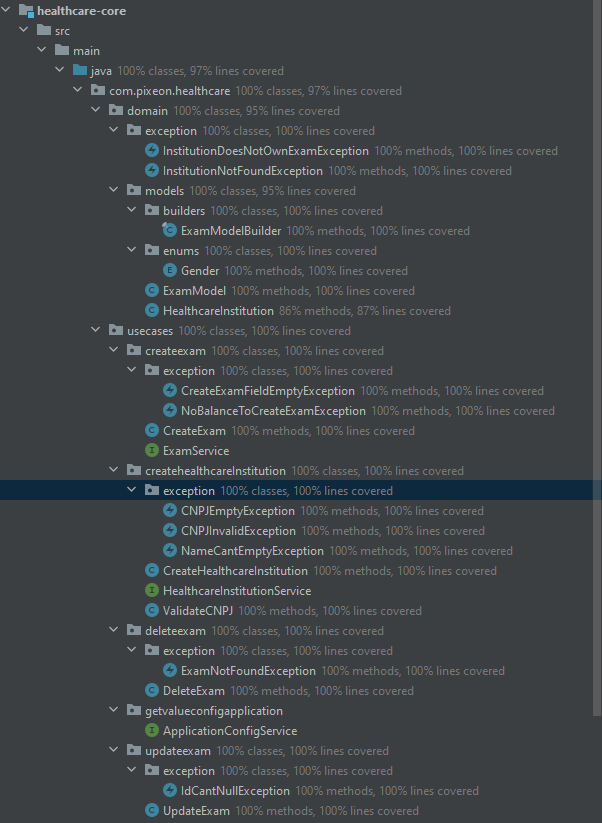
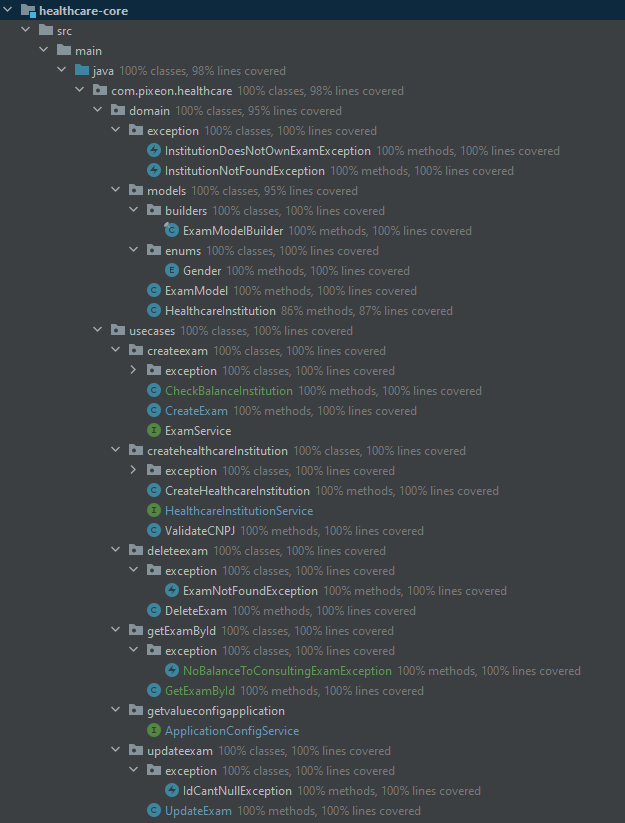
Finalizando implementacao para obter dados de exames

Changed region(s): [[0.0, 0.0, 1.0, 1.0]]

diff --git a/healthcare-core/src/test/java/com/pixeon/healthcare/usecases/getExamById/GetExamByIdTest.java b/healthcare-core/src/test/java/com/pixeon/healthcare/usecases/getExamById/GetExamByIdTest.java
@@ -1,0 +1,126 @@
+package com.pixeon.healthcare.usecases.getExamById;
+
+import com.pixeon.healthcare.domain.exception.InstitutionDoesNotOwnExamException;
+import com.pixeon.healthcare.domain.models.ExamModel;
+import com.pixeon.healthcare.domain.models.HealthcareInstitution;
+import com.pixeon.healthcare.domain.models.builders.ExamModelBuilder;
+import com.pixeon.healthcare.domain.models.enums.Gender;
+import com.pixeon.healthcare.usecases.createexam.ExamService;
+import com.pixeon.healthcare.usecases.createhealthcareInstitution.HealthcareInstitutionService;
+import com.pixeon.healthcare.usecases.getExamById.exception.NoBalanceToConsultingExamException;
+import com.pixeon.healthcare.usecases.getvalueconfigapplication.ApplicationConfigService;
+import org.junit.Before;
+import org.junit.Test;
+import org.mockito.Mock;
+import org.mockito.MockitoAnnotations;
+
+import java.math.BigDecimal;
+
+import static org.junit.Assert.assertEquals;
+import static org.junit.Assert.assertThrows;
+import static org.mockito.ArgumentMatchers.anyInt;
+import static org.mockito.Mockito.*;
+
+public class GetExamByIdTest {
+
+    private static final int EXAM_ID = 1;
+    private static final BigDecimal VALUE_FOR_CONSULTING_EXAM = new BigDecimal(4.78);
+    private GetExamById getExamById;
+    @Mock
+    private ExamService examService;
+    @Mock
+    private ApplicationConfigService applicationConfigService;
+    @Mock
+    private HealthcareInstitutionService healthcareInstitutionService;
+
+    @Before
+    public void setup() {
+        MockitoAnnotations.openMocks(this);
+        this.getExamById = new GetExamById(applicationConfigService, examService, healthcareInstitutionService);
+        when(examService.getExameById(anyInt())).thenReturn(createExam());
+        when(applicationConfigService.getValueForConsultingExam()).thenReturn(VALUE_FOR_CONSULTING_EXAM);
+        when(healthcareInstitutionService.getCurrentInstitution()).thenReturn(new HealthcareInstitution.Builder()
+                .name("Instituição de Saúde")
+                .cnpj("42.094.340/0001-79")
+                .coins(new BigDecimal(20.0))
+                .build());
+    }
+
+    @Test
+    public void shouldReturnExam() {
+        ExamModel examModel = this.getExamById.get(EXAM_ID);
+
+        assertEquals(1, examModel.getId(), 0.1);
+        assertEquals("Wellton S. Barros", examModel.getPatientName());
+        assertEquals(35, examModel.getPatientAge(), 0.1);
+        assertEquals(Gender.MALE, examModel.getPatientGender());
+        assertEquals("Laiane Carvalho de Oliveira", examModel.getPhysicianName());
+        assertEquals(981651, examModel.getPhysicianCRM(), 0.1);
+        assertEquals("Mentoplastia", examModel.getProcedureName());
+    }
+
+    @Test
+    public void shouldNotReturnExamFromAnotherInstitution() {
+        when(healthcareInstitutionService.getCurrentInstitution()).thenReturn(new HealthcareInstitution.Builder()
+                .name("Outra Instituição de Saúde")
+                .cnpj("56.227.555/0001-25")
+                .build());
+
+        InstitutionDoesNotOwnExamException exception = assertThrows(InstitutionDoesNotOwnExamException.class, () -> this.getExamById.get(EXAM_ID));
+        assertEquals("Exame não pertence a atual instituição!", exception.getMessage());
+    }
+
+    @Test
+    public void shouldReturnExceptionWhenInstitutionNotHaveEnoughBalance() {
+        when(healthcareInstitutionService.getCurrentInstitution()).thenReturn(new HealthcareInstitution.Builder()
+                .name("Instituição de Saúde")
+                .cnpj("42.094.340/0001-79")
+                .coins(new BigDecimal(1.2))
+                .build());
+
+        NoBalanceToConsultingExamException exception = assertThrows(NoBalanceToConsultingExamException.class, () -> this.getExamById.get(EXAM_ID));
+        assertEquals("Instituição não possui saldo para consultar exames!", exception.getMessage());
+    }
+
+    @Test
+    public void shouldReturnNewBalanceAfterConsultationCharge() {
+        when(healthcareInstitutionService.getCurrentInstitution()).thenReturn(new HealthcareInstitution.Builder()
+                .name("Instituição de Saúde")
+                .cnpj("42.094.340/0001-79")
+                .coins(new BigDecimal(15.78))
+                .build());
+
+        ExamModel exam = createExam();
+        when(examService.getExameById(anyInt())).thenReturn(exam);
+
+        ExamModel examModel = this.getExamById.get(EXAM_ID);
+        assertEquals(11.00, examModel.getHealthcareInstitution().getCoins().doubleValue(), 0.1);
+    }
+
+    @Test
+    public void verifyIfUpdateIsCallingWhenConsultingExam() {
+        this.getExamById.get(EXAM_ID);
+        verify(healthcareInstitutionService, times(1)).update(any());
+    }
+
+    private ExamModel createExam() {
+        return ExamModelBuilder.Builder()
+                .withId(1)
+                .withPatientName("Wellton S. Barros")
+                .withPatientAge(35)
+                .withPatientGender(Gender.MALE)
+                .withPhysicianName("Laiane Carvalho de Oliveira")
+                .withPhysicianCRM(981651)
+                .withProcedureName("Mentoplastia")
+                .withHealthcareInstitution(createInstitution())
+                .build();
+    }
+
+    private HealthcareInstitution createInstitution() {
+        return new HealthcareInstitution.Builder()
+                .name("Instituição de Saúde")
+                .cnpj("42.094.340/0001-79")
+                .coins(new BigDecimal(20.0))
+                .build();
+    }
+}

diff --git a/healthcare-core/src/main/java/com/pixeon/healthcare/usecases/getExamById/GetExamById.java b/healthcare-core/src/main/java/com/pixeon/healthcare/usecases/getExamById/GetExamById.java
@@ -1,0 +1,59 @@
+package com.pixeon.healthcare.usecases.getExamById;
+
+import com.pixeon.healthcare.domain.exception.InstitutionDoesNotOwnExamException;
+import com.pixeon.healthcare.domain.models.ExamModel;
+import com.pixeon.healthcare.domain.models.HealthcareInstitution;
+import com.pixeon.healthcare.usecases.createexam.CheckBalanceInstitution;
+import com.pixeon.healthcare.usecases.createexam.ExamService;
+import com.pixeon.healthcare.usecases.createhealthcareInstitution.HealthcareInstitutionService;
+import com.pixeon.healthcare.usecases.getExamById.exception.NoBalanceToConsultingExamException;
+import com.pixeon.healthcare.usecases.getvalueconfigapplication.ApplicationConfigService;
+
+import java.math.BigDecimal;
+
+public class GetExamById {
+
+    private ExamService examService;
+    private ApplicationConfigService applicationConfigService;
+    private HealthcareInstitutionService institutionService;
+
+    public GetExamById(ApplicationConfigService applicationConfigService, ExamService examService, HealthcareInstitutionService institutionService) {
+        this.applicationConfigService = applicationConfigService;
+        this.examService = examService;
+        this.institutionService = institutionService;
+    }
+
+    public ExamModel get(int examId) {
+        BigDecimal valueForConsultingExam = applicationConfigService.getValueForConsultingExam();
+        HealthcareInstitution currentInstitution = institutionService.getCurrentInstitution();
+
+        ExamModel exam = examService.getExameById(examId);
+        checkIfInstitutionOwnsExam(currentInstitution, exam.getHealthcareInstitution());
+        checkIfInstitutionHaveEnoughBalance(valueForConsultingExam, currentInstitution);
+        chargeValueForConsultingExam(valueForConsultingExam, currentInstitution);
+        updateInstitutionAfterConsultingExam(currentInstitution, exam);
+
+        exam.setHealthcareInstitution(currentInstitution);
+        return exam;
+    }
+
+    private void checkIfInstitutionOwnsExam(HealthcareInstitution currentInstitution, HealthcareInstitution examInstitution) {
+        if (!currentInstitution.equals(examInstitution)) {
+            throw new InstitutionDoesNotOwnExamException();
+        }
+    }
+
+    private void checkIfInstitutionHaveEnoughBalance(BigDecimal valueForConsultingExam, HealthcareInstitution currentInstitution) {
+        new CheckBalanceInstitution<>(new NoBalanceToConsultingExamException()).check(currentInstitution, valueForConsultingExam);
+    }
+
+    private void updateInstitutionAfterConsultingExam(HealthcareInstitution institution, ExamModel exam) {
+//        chargeValueForConsultingExam(institution);
+        institutionService.update(institution);
+//        exam.setHealthcareInstitution(institution);
+    }
+
+    private void chargeValueForConsultingExam(BigDecimal valueForConsultingExam, HealthcareInstitution institution) {
+        institution.subtractCoins(valueForConsultingExam);
+    }
+}

diff --git a/healthcare-core/src/main/java/com/pixeon/healthcare/usecases/createexam/CheckBalanceInstitution.java b/healthcare-core/src/main/java/com/pixeon/healthcare/usecases/createexam/CheckBalanceInstitution.java
@@ -1,0 +1,32 @@
+package com.pixeon.healthcare.usecases.createexam;
+
+import com.pixeon.healthcare.domain.models.HealthcareInstitution;
+
+import java.math.BigDecimal;
+
+public class CheckBalanceInstitution<T extends RuntimeException> {
+
+    private static final double WITHOUT_BALANCE = 0.0;
+    private T t;
+
+    public CheckBalanceInstitution(T t) {
+        this.t = t;
+    }
+
+    public void check(HealthcareInstitution institution, BigDecimal valueForCreateExam) {
+        verifyIfZero(institution);
+        verifyIfBalanceByReference(institution, valueForCreateExam);
+    }
+
+    private void verifyIfBalanceByReference(HealthcareInstitution institution, BigDecimal valueForCreateExam) {
+        if (institution.getCoins().doubleValue() < valueForCreateExam.doubleValue()) {
+            throw t;
+        }
+    }
+
+    private void verifyIfZero(HealthcareInstitution institution) {
+        if (institution.getCoins().doubleValue() <= WITHOUT_BALANCE) {
+            throw t;
+        }
+    }
+}

diff --git a/healthcare-core/src/main/java/com/pixeon/healthcare/usecases/updateexam/UpdateExam.java b/healthcare-core/src/main/java/com/pixeon/healthcare/usecases/updateexam/UpdateExam.java
@@ -20,7 +20,7 @@ public class UpdateExam {
     }
 
     public ExamModel update(ExamModel examModel) {
-        valid(examModel);
+        validFields(examModel);
         HealthcareInstitution examInstitution = getInstitutionOfExam(examModel);
         checkIfInstitutionOwnsExam(examInstitution);
         return examService.update(examModel);
@@ -41,7 +41,7 @@ public class UpdateExam {
         }
     }
 
-    private void valid(ExamModel examModel) {
+    private void validFields(ExamModel examModel) {
         if (examModel.isNullId()) {
             throw new IdCantNullException();
         }

diff --git a/healthcare-core/src/main/java/com/pixeon/healthcare/usecases/getExamById/exception/NoBalanceToConsultingExamException.java b/healthcare-core/src/main/java/com/pixeon/healthcare/usecases/getExamById/exception/NoBalanceToConsultingExamException.java
@@ -1,0 +1,8 @@
+package com.pixeon.healthcare.usecases.getExamById.exception;
+
+public class NoBalanceToConsultingExamException extends RuntimeException {
+
+    public NoBalanceToConsultingExamException() {
+        super("Instituição não possui saldo para consultar exames!");
+    }
+}

diff --git a/healthcare-core/src/main/java/com/pixeon/healthcare/usecases/createhealthcareInstitution/HealthcareInstitutionService.java b/healthcare-core/src/main/java/com/pixeon/healthcare/usecases/createhealthcareInstitution/HealthcareInstitutionService.java
@@ -9,4 +9,6 @@ public interface HealthcareInstitutionService {
     HealthcareInstitution getCurrentInstitution();
 
     HealthcareInstitution getInstitutionForExamBy(Integer examId);
+
+    void update(HealthcareInstitution institution);
 }

diff --git a/healthcare-core/src/main/java/com/pixeon/healthcare/usecases/getvalueconfigapplication/ApplicationConfigService.java b/healthcare-core/src/main/java/com/pixeon/healthcare/usecases/getvalueconfigapplication/ApplicationConfigService.java
@@ -7,4 +7,6 @@ public interface ApplicationConfigService {
     BigDecimal getValueCreateExam();
 
     BigDecimal getValueForNewInstitution();
+
+    BigDecimal getValueForConsultingExam();
 }

diff --git a/README.md b/README.md
@@ -9,15 +9,24 @@ Textos redigidos com teclado padrão En-us.
   - `Criar um Exame`
   - `Cada exame criado com sucesso deve cobrar 1 moeda pixeon do bugdet da instituição de saúde`
  
- (Sabádo 04 de Novembro de 2020) Start 09:13, End 10:47
+ (Sabádo 14 de Novembro de 2020) Start 09:13, End 10:47
   - `Atualizar um Exame`
   - `Deve permitir atualizar um exame se todos os dados obrigatórios estiverem preenchidos, incluindo ID.`
+  - `Uma instituição de saúde não deve ter acesso a atualizar um exame que pertença a outra instituição de saúde.`
    
- (Sabádo 04 de Novembro de 2020) Start 11:04, End 15:09
+ (Sabádo 14 de Novembro de 2020) Start 11:04, End 15:09
   - `Deletear um Exame`
   - `Deve permitir deletar um exame quando existir o exame.`
-  - `OBS: Algunas alteracoes no componete de ExameService foram necessarios para evitar duplicidade de codigos`
-  - `Atualizacoes em testes para melhor cobertura foram feitos`      
+  - `Uma instituição de saúde não deve ter acesso a deletar um exame que pertença a outra instituição de saúde.`
+  - `OBS: Algunas alteracoes no componente de ExameService foram necessarios para evitar duplicidade de codigos`
+  - `Atualizacoes em testes para melhor cobertura foram feitos` 
+     
+ (Sabádo 14 de Novembro de 2020) Start 18:34, End 
+  - `Obter um exame`
+  - `Uma instituição de saúde não deve ter acesso a um exame que pertença a outra instituição de saúde.`
+  - `Uma instituição de saúde não tem permissão para criar ou fazer um exame quando está sem orçamento.` 
+  
+       
  
   ![](resources/coverage-tests.PNG)
  #### Coverage
